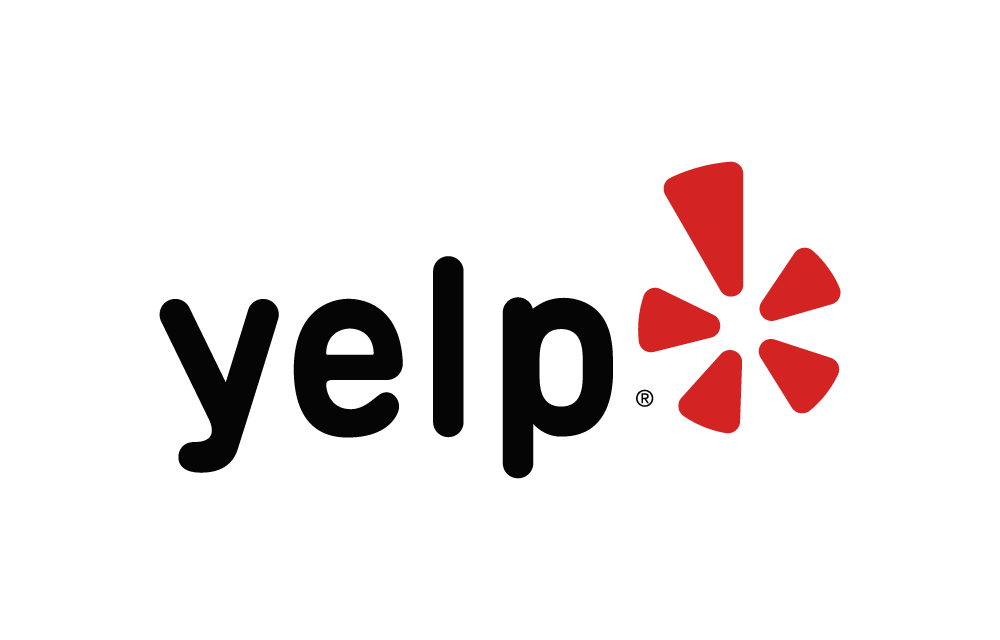
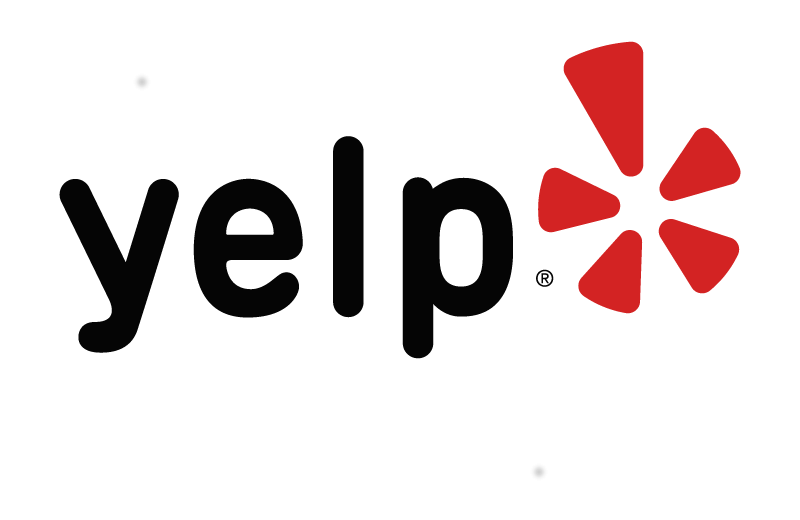
Added basic css and styling divs

diff --git a/src/components/BusinessDetails.js b/src/components/BusinessDetails.js
@@ -1,18 +1,34 @@
 import React from 'react'
 
+
+function getStarImage (rating) {
+  let file = parseInt(rating)
+  if (rating > file) {
+    file = `${file}-half`
+  }
+  return `../images/stars/${file}.png`
+}
+
 class BusinessDetails extends React.Component {
   render () {
     return (
-      <div>
-        <h2>{this.props.data.name}</h2>
-        <p>{this.props.data.price}</p>
-        <p>{this.props.data.phone}</p>
-        <p>{this.props.data.address}</p>
-        <p>{this.props.data.tags.map(tag => tag.title).join(', ')}</p>
-        <img src={this.props.data.images[0]} />
-        <img src={this.props.data.images[1]} />
-        <img src={this.props.data.images[2]} />
-        <p>Based on {this.props.data.reviews} reviews</p>
+      <div className='details'>
+        <div className='imgs'>
+          <img className='pic' src={this.props.data.images[0]} />
+          <img className='pic' src={this.props.data.images[1]} />
+          <img className='pic' src={this.props.data.images[2]} />
+        </div>
+        <div className='info'>
+          <h1>{this.props.data.name}</h1>
+          <div className='rating'>
+            <img className='stars' src={getStarImage(this.props.data.rating)} />
+            <p>Based on {this.props.data.reviews} reviews</p>
+          </div>
+          <p>{this.props.data.price}</p>
+          <p>{this.props.data.tags.map(tag => tag.title).join(', ')}</p>
+          <p>{this.props.data.phone}</p>
+          <p>{this.props.data.address}</p>
+        </div>
       </div>
     )
   }

diff --git a/src/App.css b/src/App.css
@@ -1,10 +1,97 @@
+#nav {
+  margin-bottom: 20px;
+  border-bottom: 2px solid black;
+}
+
 .searchBtn {
   background: url('../public/images/search.png') no-repeat local;
   background-size: 100% 100%;
+  border-radius: 5px;
   padding: 15px;
+  display: table-cell;
+  vertical-align: middle;
+}
+
+#logo {
+  display: block;
+  padding-bottom: 10px;
+  margin: auto;
 }
 
 #yelp_logo {
   display: inline-block;
-  height: 100px;
+  vertical-align: middle;
+  height: 80px;
+}
+
+#nav > .SearchBar {
+  display: block;
+  padding-bottom: 10px;
+  margin: auto;
+  width: 520px;
+}
+
+.SearchBar > * {
+  display: table-cell;
+  margin-right: 5px;
+}
+
+.SearchBar > .InputKeyword > *, .SearchBar > .InputLocation > * {
+  display: inline;
+  margin-right: 5px;
+}
+
+#credit > h2 {
+  display: inline-block;
+  font-size: 1.5rem;
+}
+
+#credit {
+  display: block;
+  margin: auto;
+  width: 280px;
+}
+
+.card > .pic {
+  display: inline-block;
+  height: 200px;
+  margin-right: 20px;
+}
+
+.info {
+  display: inline-block;
+  vertical-align: top;
+}
+
+.info > .name {
+  display: block;
+  font-size: 1.5rem;
+  margin-bottom: 5px;
+}
+
+.rating > .stars {
+  display: inline-block;
+  width: 100px;
+  margin-right: 5px;
+}
+
+.rating > p {
+  display: inline;
+}
+
+.details > .imgs {
+  display: inline-block;
+  margin-right: 25px;
+}
+
+.imgs > .pic {
+  display: block;
+  height: 300px;
+  margin-bottom: 10px;
+}
+
+.info > h1 {
+  display: block;
+  font-size: 2rem;
+  margin-bottom: 10px;
 }

diff --git a/src/components/BusinessCard.js b/src/components/BusinessCard.js
@@ -12,15 +12,19 @@ function getStarImage (rating) {
 class BusinessCard extends React.Component {
   render () {
     return (
-      <div>
-        <img src={this.props.image} />
-        <Link to={`/business/${this.props.id}`}>{this.props.name}</Link>
-        <p>{this.props.price}</p>
-        <p>{this.props.tags.map(tag => tag.title).join(', ')}</p>
-        <p>{this.props.phone}</p>
-        <p>{this.props.address}</p>
-        <img src={getStarImage(this.props.rating)} />
-        <p>Based on {this.props.reviews} reviews</p>
+      <div className='card'>
+        <img className='pic' src={this.props.image} />
+        <div className='info'>
+          <Link className='name' to={`/business/${this.props.id}`}>{this.props.name}</Link>
+          <div className='rating'>
+            <img className='stars' src={getStarImage(this.props.rating)} />
+            <p>Based on {this.props.reviews} reviews</p>
+          </div>
+          <p>{this.props.price}</p>
+          <p>{this.props.tags.map(tag => tag.title).join(', ')}</p>
+          <p>{this.props.phone}</p>
+          <p>{this.props.address}</p>
+        </div>
       </div>
     )
   }

diff --git a/src/components/App.js b/src/components/App.js
@@ -19,10 +19,8 @@ function withFetch (Component, requestFunc) {
       this.doFetch()
     }
     doFetch () {
-      console.log('hoc props', this.props.match.params) // debug
       requestFunc(this.props.match.params.query)
         .then(res => this.setState(res))
-        .then(res => console.log('state is', this.state)) // debug
     }
     render () {
       return (
@@ -40,7 +38,7 @@ class App extends React.Component {
     this.state = { location: 'Berkeley' }
   }
   render () {
-    return ( // redirect / path to /location=${this.state.location}
+    return (
       <div>
         <NavHeader location={this.state.location} />
         <Switch>

diff --git a/src/components/NavHeader.js b/src/components/NavHeader.js
@@ -5,12 +5,13 @@ import SearchForm from './SearchForm'
 class NavHeader extends React.Component {
   render () {
     return (
-      <div>
+      <div id='nav'>
         <img id='logo' src='../images/nyan.jpeg' />
-        <h2>for cats</h2>
         <SearchForm location={this.props.location} />
-        <h2>Powered by</h2>
-        <img id='yelp_logo' src='../images/yelp.png' />
+        <div id='credit'>
+          <h2>Powered by</h2>
+          <img id='yelp_logo' src='../images/yelp.png' />
+        </div>
       </div>
     )
   }

diff --git a/src/components/SearchForm.js b/src/components/SearchForm.js
@@ -10,7 +10,7 @@ class SearchForm extends React.Component {
   }
   render () {
     return (
-      <div>
+      <div className='SearchBar'>
         <InputField
           class='InputKeyword'
           label='Search'
